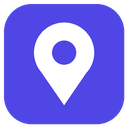
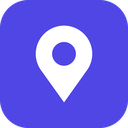
Prepare PinPoint Feedback 1.0.1 for Chrome Web Store submission
Recover comment mode after an extension reload, retry rate-limited
screenshots, show a clear error when storage is full, and add store
icons plus a submission checklist.

diff --git a/background.js b/background.js
@@ -20,11 +20,28 @@ license.startLicenseBackground();
 // ---------------------------------------------------------------------------
 
 chrome.action.onClicked.addListener((tab) => {
-  toggleCommentMode(tab);
+  toggleCommentMode(tab).catch((err) => {
+    console.info('PinPoint: toggle failed:', err?.message);
+  });
 });
 
+async function injectOverlay(tabId) {
+  // Drop leftover hosts / flags from an orphaned script (for example after an extension reload).
+  await chrome.scripting.executeScript({
+    target: { tabId },
+    func: () => {
+      window.__pinpointFeedback = false;
+      document.querySelectorAll('pinpoint-feedback').forEach((el) => el.remove());
+    },
+  });
+  await chrome.scripting.executeScript({ target: { tabId }, files: [CONTENT_SCRIPT] });
+}
+
 async function toggleCommentMode(tab) {
-  if (!tab?.id) return;
+  if (!tab?.id) {
+    await openDashboard();
+    return;
+  }
   try {
     // Is the overlay already running in this tab?
     const [probe] = await chrome.scripting.executeScript({
@@ -32,10 +49,15 @@ async function toggleCommentMode(tab) {
       func: () => Boolean(window.__pinpointFeedback),
     });
     if (probe?.result) {
-      await chrome.tabs.sendMessage(tab.id, { type: 'pp:exit' });
-    } else {
-      await chrome.scripting.executeScript({ target: { tabId: tab.id }, files: [CONTENT_SCRIPT] });
+      try {
+        await chrome.tabs.sendMessage(tab.id, { type: 'pp:exit' });
+        return;
+      } catch (err) {
+        // Flag was set but no listener is left (orphaned after a reload). Turn it back on.
+        console.info('PinPoint: overlay was stale, turning it back on:', err?.message);
+      }
     }
+    await injectOverlay(tab.id);
   } catch (err) {
     // Chrome blocks extensions on chrome:// pages, the Web Store, the New Tab page, PDFs, etc.
     // Open the comment list instead so the click still does something useful.
@@ -99,8 +121,19 @@ function cropWindow(lo, hi, min, max, click, limit) {
   return { start, size };
 }
 
+async function captureVisibleTabWithRetry(windowId) {
+  try {
+    return await chrome.tabs.captureVisibleTab(windowId, { format: 'png' });
+  } catch (err) {
+    const message = String(err?.message || err);
+    if (!/MAX_CAPTURE|quota|rate/i.test(message)) throw err;
+    await new Promise((r) => setTimeout(r, 700));
+    return await chrome.tabs.captureVisibleTab(windowId, { format: 'png' });
+  }
+}
+
 async function captureAndCrop(tab, { rect, click, viewport, number }) {
-  const dataUrl = await chrome.tabs.captureVisibleTab(tab.windowId, { format: 'png' });
+  const dataUrl = await captureVisibleTabWithRetry(tab.windowId);
   const bitmap = await createImageBitmap(await (await fetch(dataUrl)).blob());
 
   // Screenshot pixels per CSS pixel (handles retina screens and browser zoom).
@@ -345,7 +378,15 @@ chrome.runtime.onMessage.addListener((msg, sender, sendResponse) => {
     .then(() => handler(msg, sender))
     .then(sendResponse, (err) => {
       console.error('PinPoint:', msg.type, err);
-      sendResponse({ ok: false, error: String(err?.message || err) });
+      sendResponse({ ok: false, error: friendlyStorageError(err) });
     });
   return true; // keep the channel open for the async response
 });
+
+function friendlyStorageError(err) {
+  const message = String(err?.message || err);
+  if (/quota/i.test(message)) {
+    return 'PinPoint is out of storage space. Delete some comments or a project, then try again.';
+  }
+  return message;
+}

diff --git a/dashboard/dashboard.js b/dashboard/dashboard.js
@@ -318,9 +318,14 @@ $('exportPdf').addEventListener('click', async (e) => {
 $('exportCsv').addEventListener('click', async () => {
   const { project, comments } = exportContext();
   if (!comments.length) return toast('Nothing to export with this filter.');
-  const blob = new Blob([toCSV(project, comments)], { type: 'text/csv;charset=utf-8' });
-  await download(blob, `${fileBaseName(project)}.csv`);
-  toast('CSV saved to your Downloads');
+  try {
+    const blob = new Blob([toCSV(project, comments)], { type: 'text/csv;charset=utf-8' });
+    await download(blob, `${fileBaseName(project)}.csv`);
+    toast('CSV saved to your Downloads');
+  } catch (err) {
+    console.error(err);
+    toast('Sorry, the CSV could not be saved.');
+  }
 });
 
 $('copyText').addEventListener('click', async () => {

diff --git a/content/overlay.js b/content/overlay.js
@@ -7,7 +7,8 @@
   'use strict';
 
   if (window.__pinpointFeedback) return;
-  window.__pinpointFeedback = true;
+  const instance = {};
+  window.__pinpointFeedback = instance;
 
   // -------------------------------------------------------------------------
   // State
@@ -893,7 +894,8 @@
       /* extension context already gone */
     }
     host.remove();
-    window.__pinpointFeedback = false;
+    // Only clear the flag if this instance still owns it (a newer inject may have started).
+    if (window.__pinpointFeedback === instance) window.__pinpointFeedback = false;
     if (!silent) send('pp:modeChanged', { on: false });
   }
 

diff --git a/pages/privacy.html b/pages/privacy.html
@@ -56,7 +56,7 @@
     <p>If a paid plan is added later, payment would be handled by a payment provider (such as ExtensionPay / Stripe) on their own website. Your comments and screenshots would still stay on your device. This policy will be updated before any such change.</p>
 
     <h2>Contact</h2>
-    <p>Questions? Contact the developer at <strong>[your support email]</strong>.</p>
+    <p>Questions? Contact the developer at <strong>[ADD YOUR SUPPORT EMAIL BEFORE PUBLISHING]</strong>.</p>
   </main>
 </body>
 </html>

diff --git a/README.md b/README.md
@@ -38,6 +38,8 @@ Pins come back automatically when you open the same page again and turn PinPoint
 
 **Other ways to open the comment list:** right-click the PinPoint icon and choose **Options**, or click the icon on a page where extensions can't run (like the New Tab page).
 
+If **Alt+Shift+P** does nothing, open `chrome://extensions/shortcuts` and assign that shortcut to PinPoint. Chrome sometimes leaves the suggested shortcut unassigned until you set it.
+
 ### Free plan limits
 
 - 1 project (projects are keyed by site domain, e.g. `client.com`)
@@ -128,13 +130,21 @@ Payments are **not** wired up. Everything goes through `lib/license.js`, so this
 
 ## 5. Publishing to the Chrome Web Store
 
-1. Replace the placeholder icons in `icons/` with your final artwork (same sizes: 16, 48, 128 px).
-2. Put your support email in `pages/privacy.html`.
-3. **Host the privacy policy publicly.** The Web Store needs a URL. The simplest option is to paste `pages/privacy.html` into a free GitHub Pages site or a page on your portfolio site.
-4. Zip the **contents** of the folder, so `manifest.json` sits at the top level of the zip. Leave out `README.md` and `STORE_LISTING.md` if you like.
-5. Go to the [Chrome Web Store Developer Dashboard](https://chrome.google.com/webstore/devconsole) (one-time $5 registration fee), click **New item**, and upload the zip.
-6. Copy the text from `STORE_LISTING.md` into the listing. Add 1–5 screenshots (1280×800).
-7. In the **Privacy** tab, explain each permission (reasons are in `pages/privacy.html`). Declare that you don't collect user data and that you use no remote code.
+Before you submit, you will need:
+
+1. A **support email** in `pages/privacy.html` (replace `[ADD YOUR SUPPORT EMAIL BEFORE PUBLISHING]`).
+2. A **public privacy policy URL**. The Web Store will not accept the file inside the extension. Host `pages/privacy.html` on GitHub Pages or any site you control, then paste that URL into the listing.
+3. The one-time **$5 USD** Chrome Web Store developer registration fee (paid in the developer dashboard with a Google account).
+4. At least one **screenshot**, 1280×800 or 640×400 pixels (up to 5). A small **promo tile** of 440×280 is optional but recommended — a starter is in `store-assets/promo-440x280.png`. The 16/48/128 icons are already in `icons/`.
+5. A zip of the extension with `manifest.json` at the top level. Leave out `.git`, `README.md` and `STORE_LISTING.md`.
+
+Then:
+
+1. Go to the [Chrome Web Store Developer Dashboard](https://chrome.google.com/webstore/devconsole), click **New item**, and upload the zip.
+2. Copy the text from `STORE_LISTING.md` into the listing, including the single-purpose statement and permission justifications on the **Privacy** tab.
+3. Declare that you don't collect user data and that you use no remote code. Paste the public privacy policy URL.
+
+> After you change any file, go back to `chrome://extensions`, click the circular reload arrow on the PinPoint card, and refresh the website tab you're testing on.
 
 > Note about jsPDF: the original library has one link to a CDN script, used only by a "view in browser" mode this extension never calls. That URL was removed from the bundled copy so the package contains no remote code references.
 

diff --git a/STORE_LISTING.md b/STORE_LISTING.md
@@ -55,3 +55,17 @@ PinPoint Feedback lets a user place comments on elements of the web page in the 
 **Remote code:** No. All code, including the PDF library, is packaged in the extension.
 
 **Data usage:** The extension does not collect or transmit any user data.
+
+---
+
+## What you need to submit
+
+- One-time **$5 USD** Chrome Web Store developer registration.
+- This listing copy (short description, detailed description, single-purpose statement, permission justifications above).
+- A **public URL** for the privacy policy (`pages/privacy.html` hosted on a website — not only inside the zip).
+- Your **support email**, added to `pages/privacy.html` before you host it.
+- At least one screenshot: **1280×800** or **640×400**.
+- Optional: small promo tile **440×280**. A starter tile is in `store-assets/promo-440x280.png`.
+- The 128×128 icon is already packaged in the extension.
+
+**Privacy tab declarations:** no user data is collected or transmitted; no remote code is used; all code including the PDF library is packaged in the extension.
